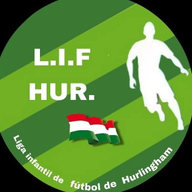
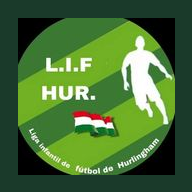
fix flash de liga incorrecta

diff --git a/src/App.jsx b/src/App.jsx
@@ -652,14 +652,14 @@ function VistaZona({ liga, temporada, competencia, zona, onBack }) {
           const catIds = zona.tablaGeneralCategorias || [];
           const results = await Promise.all(
             catIds.map(catId =>
-              getDocs(collection(doc(zonaRef, "categorias", catId), "partidos"))
+              getDocs(collection(doc(collection(zonaRef, "categorias"), catId), "partidos"))
                 .then(snap => snap.docs.map(d => ({ docId: d.id, ...d.data() })))
             )
           );
           setPartidos(results.flat());
           setSanciones(zona.tablaGeneralSanciones || []);
         } else {
-          const catRef = doc(zonaRef, "categorias", catSel);
+          const catRef = doc(collection(zonaRef, "categorias"), catSel);
           const [pSnap, catSnap] = await Promise.all([
             getDocs(collection(catRef, "partidos")),
             getDoc(catRef),
@@ -807,37 +807,36 @@ export default function App() {
   const [cargando,     setCargando]     = useState(true);
   const [error,        setError]        = useState("");
 
-  // Carga nombre y configuración de colores desde ligas/{LIGA_ID}
-  useEffect(() => {
-    getDoc(doc(db, "ligas", LIGA_ID)).then(snap => {
-      if (!snap.exists()) return;
-      const d    = snap.data();
-      const conf = d.configuracion || {};
-      setCfg({
-        nombre:  conf.nombre         || d.nombre      || CFG_DEFAULT.nombre,
-        color:   conf.colorPrincipal                  || CFG_DEFAULT.color,
-        acento:  conf.colorAcento                     || CFG_DEFAULT.acento,
-        suave:   conf.colorFondo                      || CFG_DEFAULT.suave,
-        logoUrl: conf.logoUrl        || d.logoUrl     || null,
-      });
-    }).catch(err => console.error("Error cargando configuración:", err));
-  }, []);
-
   useEffect(() => {
     async function cargar() {
       try {
-        // Temporadas de la liga, filtrar visibles, tomar la más reciente
-        const tempsSnap = await getDocs(collection(db, "ligas", LIGA_ID, "temporadas"));
+        // Carga config de la liga y temporadas en paralelo
+        const [ligaSnap, tempsSnap] = await Promise.all([
+          getDoc(doc(db, "ligas", LIGA_ID)),
+          getDocs(collection(db, "ligas", LIGA_ID, "temporadas")),
+        ]);
+
+        if (ligaSnap.exists()) {
+          const d    = ligaSnap.data();
+          const conf = d.configuracion || {};
+          setCfg({
+            nombre:  conf.nombre         || d.nombre  || CFG_DEFAULT.nombre,
+            color:   conf.colorPrincipal              || CFG_DEFAULT.color,
+            acento:  conf.colorAcento                 || CFG_DEFAULT.acento,
+            suave:   conf.colorFondo                  || CFG_DEFAULT.suave,
+            logoUrl: conf.logoUrl        || d.logoUrl || null,
+          });
+        }
+
         const temps = tempsSnap.docs
           .map(d => ({ docId: d.id, ...d.data() }))
           .filter(t => t.visible !== false)
           .sort((a, b) => (b.anio || 0) - (a.anio || 0));
 
-        if (temps.length === 0) { setCargando(false); return; }
+        if (temps.length === 0) return;
         const temp = temps[0];
         setTempSel(temp);
 
-        // Competencias de esa temporada, filtrar visibles
         const compsSnap = await getDocs(
           collection(db, "ligas", LIGA_ID, "temporadas", temp.docId, "competencias")
         );
@@ -845,13 +844,6 @@ export default function App() {
           .map(d => ({ docId: d.id, ...d.data() }))
           .filter(c => c.visible !== false);
         setCompetencias(comps);
-
-        // Auto-navegar si hay una sola competencia
-        if (comps.length === 1) {
-          await cargarZonas(temp, comps[0]);
-          setCompSel(comps[0]);
-          setPantalla("zonas");
-        }
       } catch (e) {
         setError(e.message);
       } finally {
@@ -872,6 +864,18 @@ export default function App() {
     setCompSel(comp);
     await cargarZonas(tempSel, comp);
     setPantalla("zonas");
+  }
+
+  // ── Spinner inicial hasta que Firebase responda ──
+  if (cargando) {
+    return (
+      <>
+        <style>{`@keyframes spin { to { transform: rotate(360deg); } }`}</style>
+        <div style={{ display: "flex", justifyContent: "center", alignItems: "center", height: "100vh" }}>
+          <div style={{ width: 40, height: 40, borderRadius: "50%", border: "3px solid #dcfce7", borderTopColor: "#4ade80", animation: "spin 0.8s linear infinite" }} />
+        </div>
+      </>
+    );
   }
 
   // ── Render zona ──
@@ -919,12 +923,10 @@ export default function App() {
         <div style={{ padding: 14, display: "flex", flexDirection: "column", gap: 10 }}>
           {pantalla === "competencias" && <BannerInstalar />}
 
-          {cargando && <div style={{ display: "flex", justifyContent: "center", padding: 32 }}><div style={{ width: 32, height: 32, borderRadius: "50%", border: "3px solid #dcfce7", borderTopColor: cfg.acento, animation: "spin 0.8s linear infinite" }} /></div>}
-
           {error && <div style={{ textAlign: "center", padding: 24, color: "#dc2626", fontSize: 13 }}>{error}</div>}
 
           {/* Competencias */}
-          {!cargando && pantalla === "competencias" && (
+          {pantalla === "competencias" && (
             competencias.length === 0
               ? <div style={{ textAlign: "center", padding: 32, color: "#9ca3af", fontSize: 13 }}>No hay competencias disponibles</div>
               : competencias.map(comp => (

diff --git a/scripts/generate-icons.js b/scripts/generate-icons.js
@@ -1,0 +1,39 @@
+// Genera icon-192.png e icon-512.png con fondo verde llenando el cuadrado completo
+// El logo circular queda centrado dentro de la safe zone (80% del área)
+// Así el OS puede recortar en círculo, cuadrado redondeado, etc. sin bordes negros
+
+import sharp from "sharp";
+import { readFileSync } from "fs";
+
+const GREEN = { r: 26, g: 58, b: 42, alpha: 1 }; // #1a3a2a
+
+async function generarIcono(logoPath, outputPath, size) {
+  // Porcentaje del logo respecto al cuadrado (dentro de la safe zone)
+  const logoSize = Math.round(size * 0.82);
+  const offset   = Math.round((size - logoSize) / 2);
+
+  // Fondo verde sólido cuadrado
+  const fondo = await sharp({
+    create: { width: size, height: size, channels: 4, background: GREEN },
+  }).png().toBuffer();
+
+  // Logo redimensionado al tamaño objetivo
+  const logo = await sharp(logoPath)
+    .resize(logoSize, logoSize, { fit: "cover", position: "centre" })
+    .toBuffer();
+
+  // Componer logo centrado sobre el fondo verde
+  await sharp(fondo)
+    .composite([{ input: logo, top: offset, left: offset }])
+    .png()
+    .toFile(outputPath);
+
+  console.log(`✓ ${outputPath} (${size}x${size}px, logo ${logoSize}px)`);
+}
+
+const LOGO = "public/logo lifhur.jpeg";
+
+await generarIcono(LOGO, "public/icon-192.png", 192);
+await generarIcono(LOGO, "public/icon-512.png", 512);
+
+console.log("Íconos generados correctamente.");

diff --git a/vite.config.js b/vite.config.js
@@ -10,7 +10,7 @@ function buildManifest(env) {
   const icons = iconUrl
     ? [{ src: iconUrl, sizes: 'any', type: 'image/png', purpose: 'any maskable' }]
     : [
-        { src: '/icon-192.png', sizes: '192x192', type: 'image/png', purpose: 'any' },
+        { src: '/icon-192.png', sizes: '192x192', type: 'image/png', purpose: 'any maskable' },
         { src: '/icon-512.png', sizes: '512x512', type: 'image/png', purpose: 'any maskable' },
       ]
 
